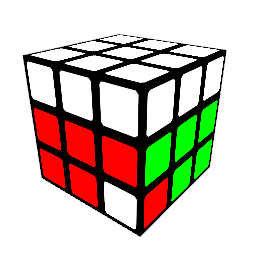
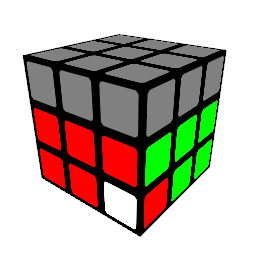
Appearance fix.

Changed region(s): [[0.0938, 0.125, 0.875, 0.5312]]

diff --git a/RubikNotes.py b/RubikNotes.py
@@ -1102,14 +1102,14 @@ void main()
         id_in_face_out = id_sq_out - 9;
         id_face_out = 0;
 
-        pos.x = 0.78 + k.x*0.02;
+        pos.x = 0.78 + k.x*0.05;
         pos.y = -0.77 + 0.52*float(2 - id_in_face_out) + k.y*0.5;
     }
     else if(id_sq_out<15)
     {
         id_in_face_out = id_sq_out - 12;
         id_face_out = 1;
-        pos.x = -0.8 + k.x*0.02;
+        pos.x = -0.83 + k.x*0.05;
         pos.y = -0.77 + 0.52*float(id_in_face_out) + k.y*0.5;
     }
     else if(id_sq_out<18)
@@ -1117,7 +1117,7 @@ void main()
         id_in_face_out = id_sq_out - 15;
         id_face_out = 4;
         pos.x = -0.77 + 0.52*float(id_in_face_out) + k.x*0.5;
-        pos.y = 0.78 + k.y*0.02;
+        pos.y = 0.78 + k.y*0.05;
 
     }
     else
@@ -1125,7 +1125,7 @@ void main()
         id_in_face_out = id_sq_out - 18;
         id_face_out = 5;
         pos.x = -0.77 + 0.52*float(2 - id_in_face_out) + k.x*0.5;
-        pos.y = -0.8 + k.y*0.02;
+        pos.y = -0.83 + k.y*0.05;
     }
     
     gl_Position = vec4(pos, 0.5, 1.0);
@@ -1138,7 +1138,7 @@ void main()
 '''
 const vec3 colors[12] = { 
     vec3(0.0, 1.0, 0.0), vec3(0.0, 0.0, 1.0), vec3(1.0, 1.0, 0.0), vec3(1.0, 1.0, 1.0), vec3(1.0, 0.0, 0.0), vec3(1.0, 0.2, 0.0),
-    vec3(0.0, 0.0, 0.0), vec3(0.0, 0.0, 0.0), vec3(1.0, 1.0, 0.0), vec3(0.0, 0.0, 0.0), vec3(0.0, 0.0, 0.0), vec3(0.0, 0.0, 0.0) };
+    vec3(0.2, 0.2, 0.2), vec3(0.2, 0.2, 0.2), vec3(1.0, 1.0, 0.0), vec3(0.2, 0.2, 0.2), vec3(0.2, 0.2, 0.2), vec3(0.2, 0.2, 0.2) };
 
 layout (location = 0) flat in uint v_id_face_in;
 layout (location = 0) out vec4 outColor;
@@ -1159,7 +1159,7 @@ void main()
         
         gpu_map = vki.device_vector_from_numpy(cube.map)
         gpu_up_face_only = vki.SVInt32(up_face_only)
-        self.rp.launch([(4*3+9)*6], [colorBuf], None, [0.0,0.05,0.05,1.0], 1.0, [gpu_map, gpu_up_face_only])
+        self.rp.launch([(4*3+9)*6], [colorBuf], None, [0.0,0.0,0.0,1.0], 1.0, [gpu_map, gpu_up_face_only])
 
         image_out = np.empty((self.wh, self.wh, 4), dtype=np.uint8)
         colorBuf.download(image_out)
@@ -1168,11 +1168,17 @@ void main()
 
 
 cube = RubiksCube()
+
 # cube.exec_seq("RUR'U'R'FRF'", reverse = True)
 # cube.exec_seq("RUR'U'R'FR2U'R'U'RUR'F'", reverse = True)
-# cube.exec_seq("(R' F' RU)(R U' R' F)", reverse = True)
 
-cube.exec_seq("(R U' R U)y(R U' R' F2)y'", reverse = True)
+# cube.exec_seq("(R U'U' R' U) (R U'U' R' U) y'(R' U' R) y", reverse = True)
+# cube.exec_seq("(U R U' R' U') y'(R' U R) y", reverse = True)
+# cube.exec_seq("(R' F' RU)(R U' R' F)", reverse = True)
+# cube.exec_seq("(R U R' U')(R U'U' R' U')(R U R')", reverse = True)
+# cube.exec_seq("(R U' R U)y(R U' R' F2)y'", reverse = True)
+# cube.exec_seq("y'(R' U' R U)(R' U' R)y", reverse = True)
+cube.exec_seq("(R U' R' U)(R U' R')", reverse = True)
 
 p_view = PerspectiveView(fn_skin = "skin_f2l.png")
 p_view.set_camera(256, 256, 45, glm.lookAt(glm.vec3(8.0,6.0,10.0), glm.vec3(0.0,-0.5,0.0), glm.vec3(0.0, 1.0, 0.0)))

diff --git a/CFOPRemade/README.md b/CFOPRemade/README.md
@@ -29,4 +29,10 @@
 <br/>(RU'RU)y(RU'R'F2)
 </div>
 
+<div style = "margin:5px; border-style: solid;">
+<img src="images/f2l_6.png" width="150">
+<br/>y'(R'U'RU)(R'U'R)
+</div>
+
+
 </div>
